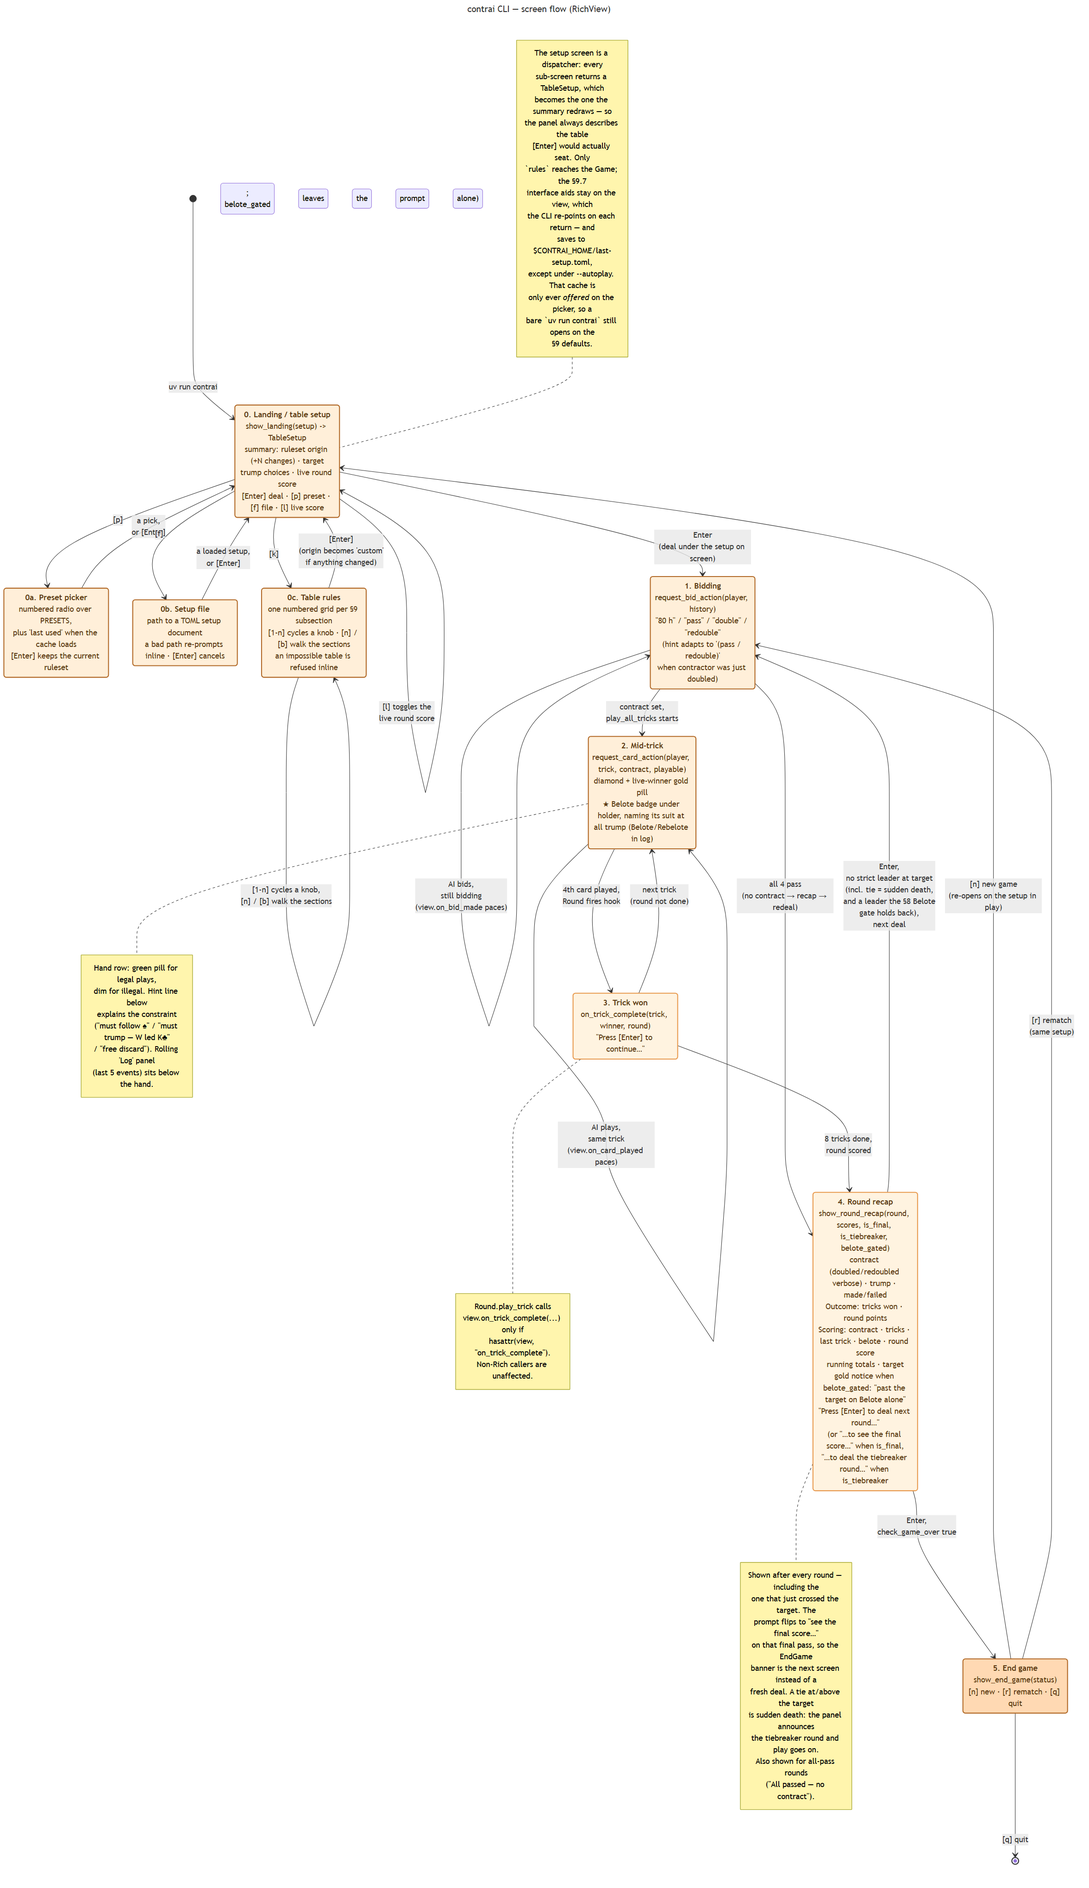
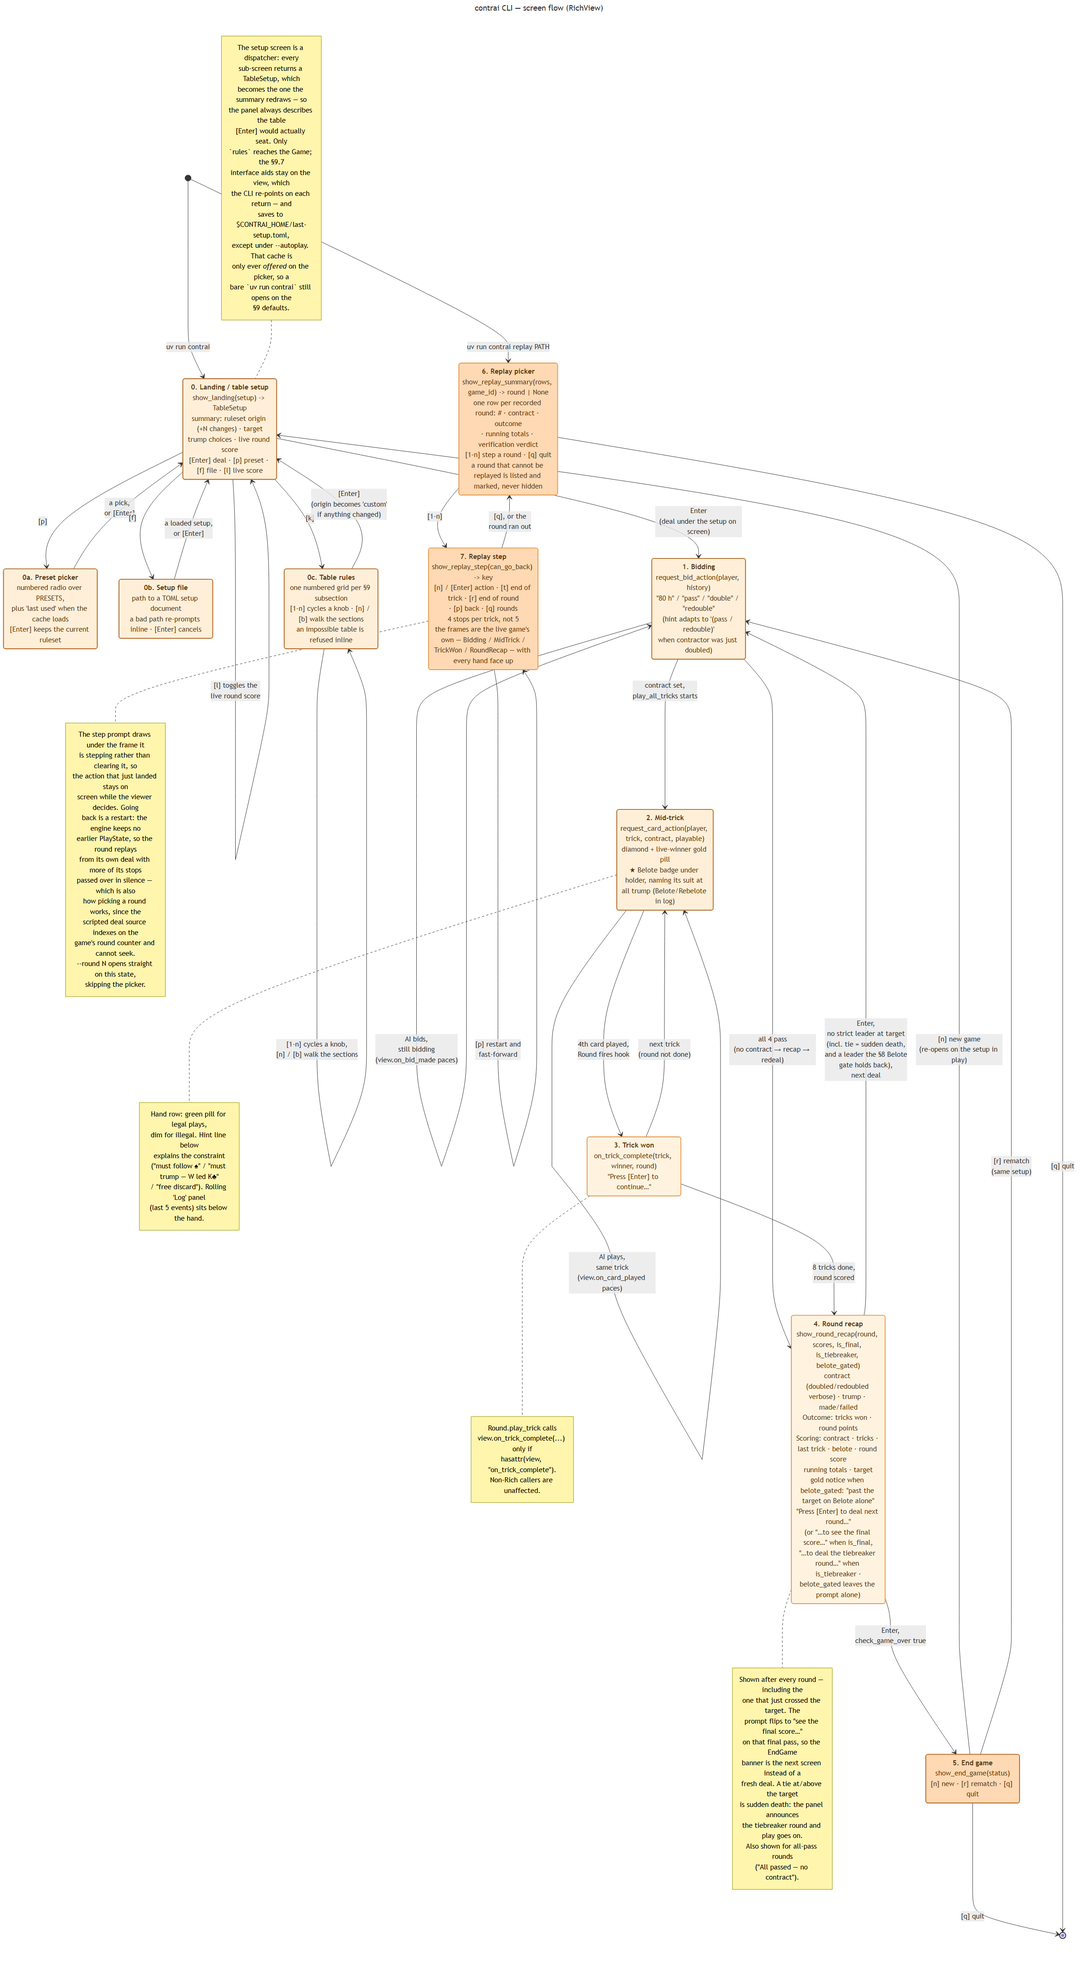
docs: document and diagram the replay screens
The engine's CLI section gains the replay subcommand: its keys, why a
trick costs four presses rather than five, and why picking a round and
stepping back are the same restart. The screen-flow diagram gains the
second entry point and the two replay states, and the engine class
diagram the stepping wrapper and the picker's row. The screen-flow
source also loses a semicolon inside a label, which Mermaid read as a
statement separator and spilled five stray nodes from.

diff --git a/docs/engine/index.md b/docs/engine/index.md
@@ -23,12 +23,12 @@ Source at `packages/contrai-engine/src/contrai_engine/`:
   - `rich_view.py` — `RichView`, the stateful orchestrator: console + per-game state, the engine hooks (`request_*_action`, `on_*`, `show_*`), the input loops, and `_render_in_game` (the single seam that pulls state off `self` and feeds the pure builders). `RoundSummary` lives here too. Re-exported from `view/__init__.py`, so both `from contrai_engine.view.rich_view import RichView` (used by `cli.py` / `model/game.py`) and `from contrai_engine.view import RichView` work.
   - `theme.py` — design tokens (colour palette) and lookup tables (target-score options, `POSITION_SHORT` seat labels, `TEAM_ABBR` side labels, `TRUMP_GLYPH` / `TRUMP_LABEL` contract-trump tags and names, bid aliases, valid contract values). The team labels here are *presentation only* — identity is `TeamSide`, so rewording one cannot break a score lookup. `TRUMP_GLYPH` gives the two suitless variants the two-letter tags `NT` / `AT` rather than falling through to the enum value (`"No Trump"`, 8 cells), which overflowed the bidding history's 11-cell bid column
   - `formatting.py` — stateless text / glyph / label builders (seat & suit labels, the shared contract / trump labels, and the compact `Bid` label)
-  - `parsing.py` — human-input parsers (`_parse_bid_input`, `_parse_card_input`)
+  - `parsing.py` — human-input parsers (`_parse_bid_input`, `_parse_card_input`, and the replay screens' `_parse_round_pick` / `_parse_replay_key`)
   - `bidding_rules.py` — the messaging-only `_illegal_bid_reason` mirror of the auction rules (the specific nudge shown when a human types an illegal bid); the adaptive prompt hint is derived directly from `Auction.legal_actions`
   - `state_helpers.py` — small game-state readers (`_current_winner`, `_explain_constraint`, `_sort_hand_for_display`, `_belote_by_position` — which groups `Round.announced_belotes` by seat, so the regime decides what the badge shows — `_resolve_delay`)
   - `layout.py` — cross-screen layout (`_two_column`, the Prompt panel, the event-log panel, and the Game-score panel shown in every in-game frame's top-left)
-  - `screens/` — one module per screen: `landing.py`, `setup.py`, `bidding.py`, `trick.py`, `recap.py`, `endgame.py`. Each exposes pure `(data) -> Panel/Text` builders; `RichView` composes and prints them. The landing screen is split in two on purpose — `landing.py` holds the fixed furniture (title, subtitle, suit ribbon, seat roster), `setup.py` the half that is *edited* (the table summary, the preset radio, the knob grid and their prompts)
-- `cli.py` — `contrai` console-script entry point, a subcommand CLI whose default is `play`: landing → game-loop → end-game; parses the three debug-mode flags, the two mutually exclusive ruleset flags `--rules FILE` / `--preset NAME`, and the two mutually exclusive record flags `--record [DIR]` / `--no-record`; also runs `verify PATH...` (see [CLI](#cli))
+  - `screens/` — one module per screen: `landing.py`, `setup.py`, `bidding.py`, `trick.py`, `recap.py`, `endgame.py`, `replay.py`. Each exposes pure `(data) -> Panel/Text` builders; `RichView` composes and prints them. The landing screen is split in two on purpose — `landing.py` holds the fixed furniture (title, subtitle, suit ribbon, seat roster), `setup.py` the half that is *edited* (the table summary, the preset radio, the knob grid and their prompts)
+- `cli.py` — `contrai` console-script entry point, a subcommand CLI whose default is `play`: landing → game-loop → end-game; parses the three debug-mode flags, the two mutually exclusive ruleset flags `--rules FILE` / `--preset NAME`, and the two mutually exclusive record flags `--record [DIR]` / `--no-record`; also runs `verify PATH...` and `replay PATH [--round N]` (see [CLI](#cli))
 - `replay/` — drive the real engine from a record rather than from players and the RNG:
   - `deal.py` — `ScriptedDealSource`, which answers the `DealSource` seam off a record: the dealer `round_dealt` names, and a deck `Deck.stacked` builds from the recorded hands. Re-exports `DealSource` / `RandomDealSource` so a replay imports all three from one place
   - `player.py` — `RecordedPlayer`, a real `Player` whose `choose_bid` / `choose_card` read the round's `RoundScript` instead of deciding, addressing each action by its position in the round rather than by a per-seat queue
@@ -36,7 +36,9 @@ Source at `packages/contrai-engine/src/contrai_engine/`:
   - `verdict.py` — `Verdict` (`verified` / `partial` / `suspect`), the five `MismatchKind` classes, `Mismatch` / `RoundVerdict` / `GameVerdict`, and `write_verdict` putting `verdicts/<game_id>.json` beside `games/`
   - `verify.py` — `VerifyingObserver` and `verify_record` / `verify_game`: the recorder's mirror, intercepting the same hooks and comparing instead of writing
   - `exceptions.py` — `ReplayError` and the three ways a replay stops agreeing with its record (`ScriptExhaustedError`, `SeatMismatchError`, `RoundExhaustedError`)
-- `options.py` — `DebugOptions`, the frozen value object the `--debug` / `--seed` / `--autoplay` flags parse into. Stdlib-only, read by the CLI and the view, **never** by the model
+  - `stepping.py` — `SteppingView`, the view decorator that forwards every hook and then blocks on the ones worth reading, plus `StepMode` and the `ReplayInterrupt` a keypress raises to leave a round. Deliberately **not** a `ReplayError`: that family means the record and the engine stopped agreeing, and a driver must not mistake a keypress for a divergence
+  - `summary.py` — `ReplayRow` and `replay_rows`, one row per recorded round joined to its verdict by the record's own round number. Plain data, no Rich — the stable half of the picker, whose panel in `view/screens/replay.py` is the throwaway one
+- `options.py` — `DebugOptions`, the frozen value object the `--debug` / `--seed` / `--autoplay` flags parse into, plus the `replay` mode the `replay` subcommand builds its view with. Stdlib-only, read by the CLI and the view, **never** by the model
 - `ruleset.py` — TOML ⇄ `TableSetup`: `parse_setup` / `load_setup` / `dump_setup` / `save_setup` / `setup_path` / `resolve_setup`, plus the ruleset-only facade (`parse_ruleset` / `load_ruleset` / `dump_ruleset` / `resolve_rules`) that keeps a six-section `--rules` file exactly valid. Also the §9 catalogue *as data* — the `SECTIONS` TOML layout, `AID_SECTION`, `KNOB_LABELS`, `cycle_knob` and `non_default_knobs`, which the setup screen edits through — and `RulesetError`. Stdlib `tomllib`, so no new dependency; loading lives here because core stays I/O-free
 - `log_setup.py` — the one place that attaches a logging handler: a DEBUG-level `FileHandler` on the `contrai_engine` / `contrai_core` package roots, and a no-op unless `--debug` is set
 - `debug_state.py` — Rich-free plain-text projections shared by the debug view and the log (`sort_cards_trump_first`, `cards_still_in_play`, `hand_snapshot`, `deal_lines`, `round_result_lines`, `last_decisions`)
@@ -72,7 +74,7 @@ The trace rides the **return type** rather than an attribute the caller reads af
 
 ## CLI
 
-`uv run contrai` (or `python -m contrai_engine.cli`) launches a six-screen Rich-based terminal UI driven by `RichView` and wired in `cli.py`:
+`uv run contrai` (or `python -m contrai_engine.cli`) launches an eight-screen Rich-based terminal UI driven by `RichView` and wired in `cli.py` — six for a live game, and two more that a recorded one is watched through:
 
 | Screen        | Trigger                                 | Notes                                                                                                                                                                                       |
 | ------------- | --------------------------------------- | ------------------------------------------------------------------------------------------------------------------------------------------------------------------------------------------- |
@@ -82,6 +84,8 @@ The trace rides the **return type** rather than an attribute the caller reads af
 | **Trick won** | `Round` fires `view.on_trick_complete`  | Four-card diamond with the winner highlighted; "Press [Enter] to continue…". The hook is gated on `hasattr(view, 'on_trick_complete')`.                                                     |
 | **Round recap** | `cli.py` calls `view.show_round_recap` after `view.on_round_complete` | Between-round panel: contract (or "All passed"; the label names the taker and any Coinche/Surcoinche caller, spelled out verbose as `doubled`/`redoubled` here — see below), a `Trump:` recall line (the contract suit, since the contract label omits it), made / failed badge, then **two stacked sub-tables** sharing the N-S / E-W columns. The **Outcome** table reports the factual play tally — `Tricks won` (count) and `Round points` (trump-aware pile + last-trick 10 + the belote each side *held*, always the real total regardless of scoring shape; at a table that hands a failed declarer's belote to the defense the two sub-tables therefore disagree about it, which is the transfer being visible). The **Scoring** table is that round's mark broken into §7.2's two components as the table marked them — `Contract` (the announced-points component, carrying the double/redouble multiplier wherever the ruleset puts it) and `Round points` (the made-points component plus the belote) — then a divider and the `Round score` subtotal, which the two rows add up to by construction. A doubled or failed round therefore reads as its real shape (`Contract 200` beside `Round points 160`) rather than hiding the flat 160 pile inside a row labelled for the contract; the Outcome table above still surfaces the points genuinely captured. A final `Running` line carries the game totals and target, its numbers aligned under the team columns. Waits for Enter; shown after *every* round — when the same round just crossed the target, the prompt flips to "Press [Enter] to see the final score…" and the end-game banner is the next screen. When both teams end the round **level at/above the target** (sudden death), the panel closes with a gold "tiebreaker round follows" notice and the prompt reads "Press [Enter] to deal the tiebreaker round…". When a side sits past the target but the §8 Belote gate is holding it back, the panel closes with a gold "N-S past the target on Belote alone — the game continues" notice; the prompt is deliberately left alone, since unlike a tiebreaker the next round really is just the next round. |
 | **Game over** | `Game.check_game_over(target)` true — one team strictly leads at/above the target (a tie there keeps the game running with tiebreaker rounds) | Double-line gold banner, round-by-round summary table. `[n]` new game · `[r]` rematch · `[q]` quit.                                                                                          |
+| **Replay picker** | `contrai replay PATH` — the second entry point into the UI | One row per recorded round: number, contract, outcome, the running totals where the record holds a score line, and the verification verdict computed when the file opened. Rounds the driver cannot step are listed and marked `not steppable`, never hidden. `[1-n]` steps a round · `[q]` quits. Unlike the landing screen, a blank answer re-prompts rather than leaving — closing a record by reflex would be the wrong default. |
+| **Replay step** | every stop of a stepped round, `--round N` straight away | Not a screen of its own so much as a prompt drawn *under* whichever live frame the replay just rendered — bidding, mid-trick, trick-won or recap, with every hand face up. `[n]`/`[Enter]` next action · `[t]` end of trick · `[r]` end of round · `[p]` back · `[q]` back to the picker. `[p]` is omitted at a round's first stop, where there is nothing to go back to. See **Watching one** below. |
 
 Every in-game screen also carries a rolling **event log** panel (5 lines, "Log") slotted between the hand and the prompt. It captures the last few engine events — deal, all-pass redeal, every bid, the *contract-set* bookmark when bidding ends on a deal, every card play, every trick winner, belote / rebelote announcements — so the user always sees the narrative continuity, even when AI players act faster than they can read.
 
@@ -186,6 +190,25 @@ A record naming a preset whose `RuleConfig` has since moved is reported as a **n
 ```plantuml format="svg" source="seq_replay.puml"
 ```
 
+**Watching one.** `contrai verify` tells you round 9 is suspect; `contrai replay` shows you the hand where it went wrong. It opens a record on its rounds and steps the one you pick through the live game's own screens, every hand face up.
+
+```bash
+uv run contrai replay ./corpus/games/engine-20260911T120000Z-abc123.jsonl
+uv run contrai replay ./corpus/games/obs-0a1b2c3d.jsonl --round 8   # skip the picker
+```
+
+It exits `0` normally, `1` when the record cannot be read or `--round` names no replayable round, and `2` on a usage error. It **writes nothing** — no record, no verdict file. The verdict column is computed live when the file opens, because a `verdicts/<game_id>.json` sitting beside a record may describe an older one.
+
+The keys: `[n]` or `[Enter]` for the next action, `[t]` to the end of the trick, `[r]` to the end of the round, `[p]` back one action, `[q]` back to the picker — and, from the picker, out. A trick costs **four presses, not five**: the fourth card's stop is skipped because the trick-won frame follows it immediately and names the winner, so the fourth press lands there. A belote announcement takes a stop of its own, because the engine fires it *after* the card that triggered it and its frame would otherwise be painted over unread.
+
+**The picker lists rounds it cannot step.** A round is steppable when its *structure* finished: the auction closed, and either it was passed out with no cards or all eight tricks were played. A score is no part of that — which is why an observed game shows a column of `partial` verdicts and is not a problem, a spectator seeing the cards long before a score sheet. The rounds the driver refuses are listed and marked `not steppable` rather than hidden, because the round a viewer is hunting is usually one of those.
+
+**Stepping back is a restart, and picking a round is the same restart.** `ScriptedDealSource` indexes on the game's own round counter and cannot seek, and the engine is forward-only — `Round` keeps just the latest `PlayState` — so there is no earlier frame to return to and no way to jump ahead. Both operations are therefore the same one: rebuild the controller, replay the earlier rounds in silence, and pass over as many of the round's stops as needed. A `RecordedPlayer` derives its action index from live engine state rather than from a cursor, so a round restarts with no reset call and reproduces exactly — and it replays in milliseconds, which is what makes `[p]` affordable. A suspect earlier round is cleared and stepped past rather than aborting the round being watched.
+
+**The prompt stops after the action, not before it.** The engine's pull hooks (`request_bid_action` / `request_card_action`) are reached only for a seat whose `is_human` is true, which a `RecordedPlayer` never is — so `SteppingView` intercepts the *push* hooks instead, forwards each frame to the real view and blocks underneath it. That turns out to be the better seam anyway: every stop shows the action that just landed, which is the frame worth reading. The step prompt does not clear the console for the same reason.
+
+**Replay mode is the debug face-up path with no pacing.** `DebugOptions.replay` shows every seat's hand and collapses every pacing default to zero; an explicitly set `CONTRAI_AI_BID_DELAY` / `CONTRAI_AI_CARD_DELAY` still wins, so a replay can be paced back up for observation. There are no human prompts to suppress — a recorded seat is not a human one, so the engine never asks the view for a bid or a card — but the two frames that *would* have waited for Enter (trick-won, round recap) drop that invitation under replay, since the step prompt below them owns the key.
+
 **Trump choices.** No trump and all trump are off by default (`contree-domain.md` §9.2). Turn them on with a ruleset file:
 
 ```toml
@@ -220,12 +243,12 @@ What the diamond badges is `Round.announced_belotes` — the pairs announced so 
 
 **Bid legality at the input boundary.** `request_bid_action` parses raw input for *shape* (`_parse_bid_input`) and then validates it against `Auction.is_legal` before returning. An illegal-but-parseable bid — e.g. doubling your own partner's contract — re-prompts with a specific reason (`_illegal_bid_reason`) instead of escaping to `Auction.apply` and crashing the CLI. The model keeps its strict hard-raise contract; the human-input layer is where unvalidated input is filtered. The bid prompt hint is likewise adaptive, and reads straight off `Auction.legal_actions(player)`: `double` / `redouble` are only advertised when a `DoubleBid` / `RedoubleBid` is in the seat's legal set, and the worked contract example is the cheapest legal `ContractBid` value on offer (`100 H` once a `90` stands, not the bare `80` floor) — dropped past `180` where only Slam (a non-integer value) outranks the standing contract.
 
-The pure helpers (bid parser, card parser, hand sorter, current-winner, constraint hint, illegal-bid reason, delay resolver, compact `Bid` label) are module-level functions in their respective modules (`parsing`, `state_helpers`, `bidding_rules`, `formatting`), and the per-screen `Panel` / `Table` builders are pure functions under `screens/`. The test suite mirrors that split — `tests/test_view/test_{formatting,parsing,bidding_rules,state_helpers,layout,setup,recap,endgame}.py` test the extracted modules, while `test_rich_view.py` keeps the stateful `RichView` behaviour (hooks, input loops, in-game frame). The setup screen's four input loops are driven there the way the bid loop already is: `view.console.input` is stubbed with an iterator, so a scripted keystroke sequence runs headless. The shared `four_players` fixture lives in `tests/test_view/conftest.py`. The deepest `Panel` / `Table` layouts not asserted on are validated end-to-end by smoke-running `uv run contrai`.
+The pure helpers (bid parser, card parser, hand sorter, current-winner, constraint hint, illegal-bid reason, delay resolver, compact `Bid` label) are module-level functions in their respective modules (`parsing`, `state_helpers`, `bidding_rules`, `formatting`), and the per-screen `Panel` / `Table` builders are pure functions under `screens/`. The test suite mirrors that split — `tests/test_view/test_{formatting,parsing,bidding_rules,state_helpers,layout,setup,recap,endgame,replay_screen}.py` test the extracted modules — the replay screens' file is spelled `test_replay_screen.py` because `tests/test_replay/` already owns the shorter name, the same reason `test_debug_screen.py` is spelled the way it is — while `test_rich_view.py` keeps the stateful `RichView` behaviour (hooks, input loops, in-game frame). The setup screen's four input loops are driven there the way the bid loop already is: `view.console.input` is stubbed with an iterator, so a scripted keystroke sequence runs headless. The shared `four_players` fixture lives in `tests/test_view/conftest.py`. The deepest `Panel` / `Table` layouts not asserted on are validated end-to-end by smoke-running `uv run contrai`.
 
 ```mermaid format="svg" source="state_cli_screens.mmd"
 ```
 
-The screen flow above is rendered from [`state_cli_screens.mmd`](../diagrams/state_cli_screens.mmd) — the canonical source — and shows every transition the view drives, including the `on_trick_complete` callback edge and the new between-rounds recap.
+The screen flow above is rendered from [`state_cli_screens.mmd`](../diagrams/state_cli_screens.mmd) — the canonical source — and shows every transition the view drives, including the `on_trick_complete` callback edge, the between-rounds recap, and the interface's **second entry point**: `contrai replay PATH`, which opens on the round picker instead of the landing screen and reaches the same bidding, trick and recap frames from a record.
 
 See the [Rich TUI design handoff](../../ContrAI%20CLI/design_handoff_contrai_tui/README.md) for the visual spec, including all five SVG mockups (the design predates the recap screen and the event log panel, both of which build on top of the same vocabulary).
 

diff --git a/docs/diagrams/index.md b/docs/diagrams/index.md
@@ -58,7 +58,7 @@ re-render until neither side does):
 
 ```bash
 PLANTUML_LIMIT_SIZE=16384 plantuml -tpng docs/diagrams/class_core.puml    # 11807 x 3739
-PLANTUML_LIMIT_SIZE=16384 plantuml -tpng docs/diagrams/class_engine.puml  #  9523 x 4751
+PLANTUML_LIMIT_SIZE=16384 plantuml -tpng docs/diagrams/class_engine.puml  # 11531 x 5275
 ```
 
 `class_engine.puml` outgrew 8192 when the `replay/` package landed — a reminder
